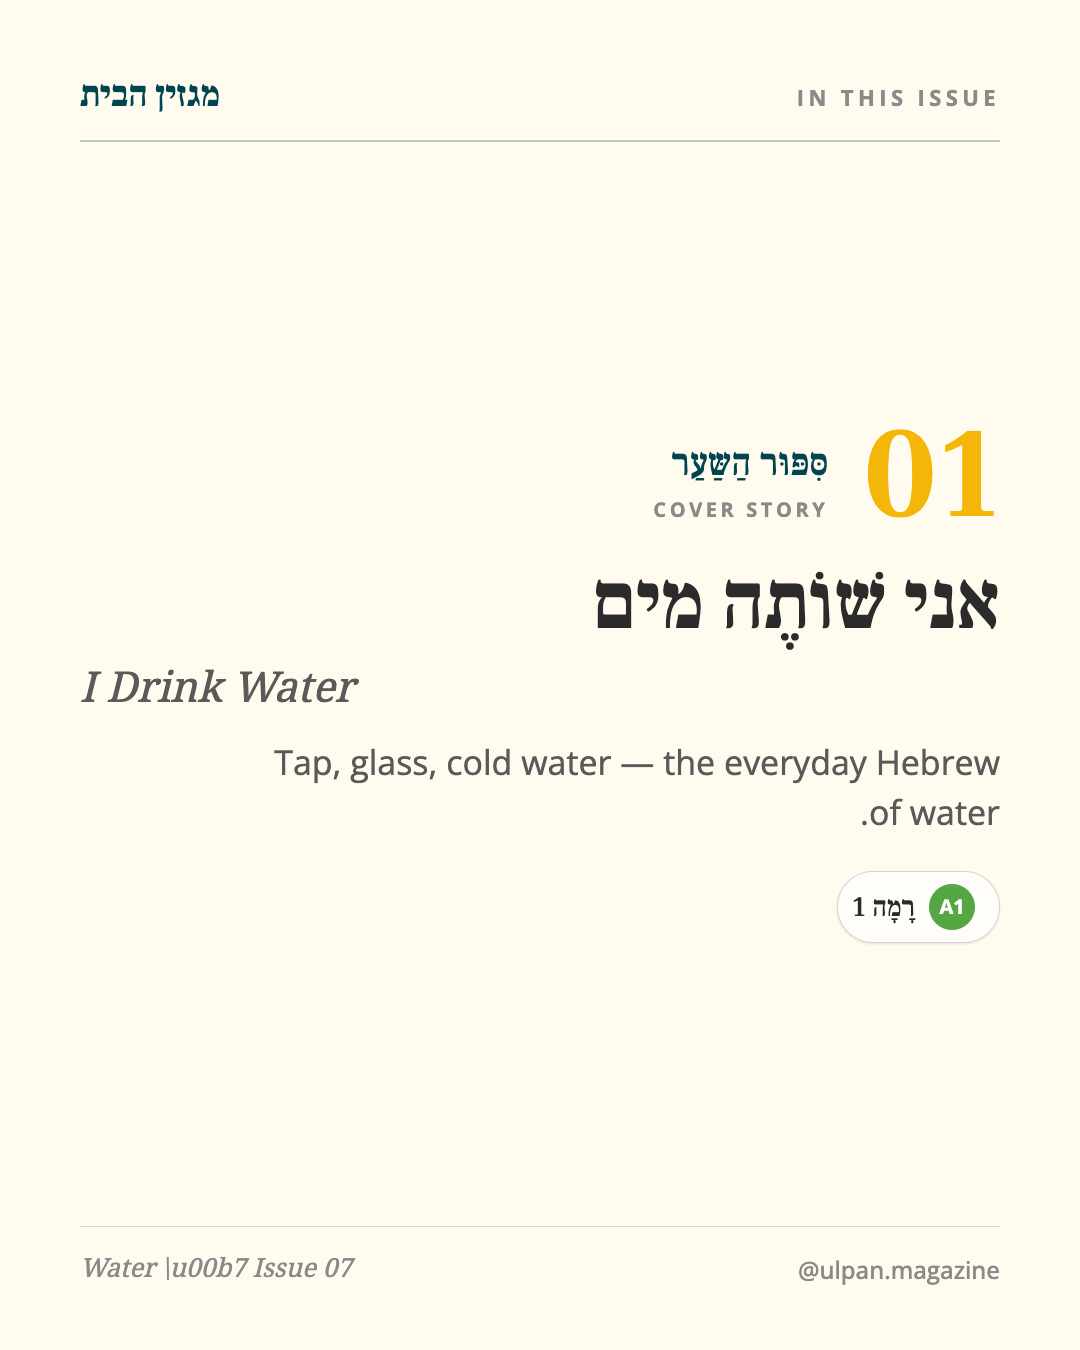
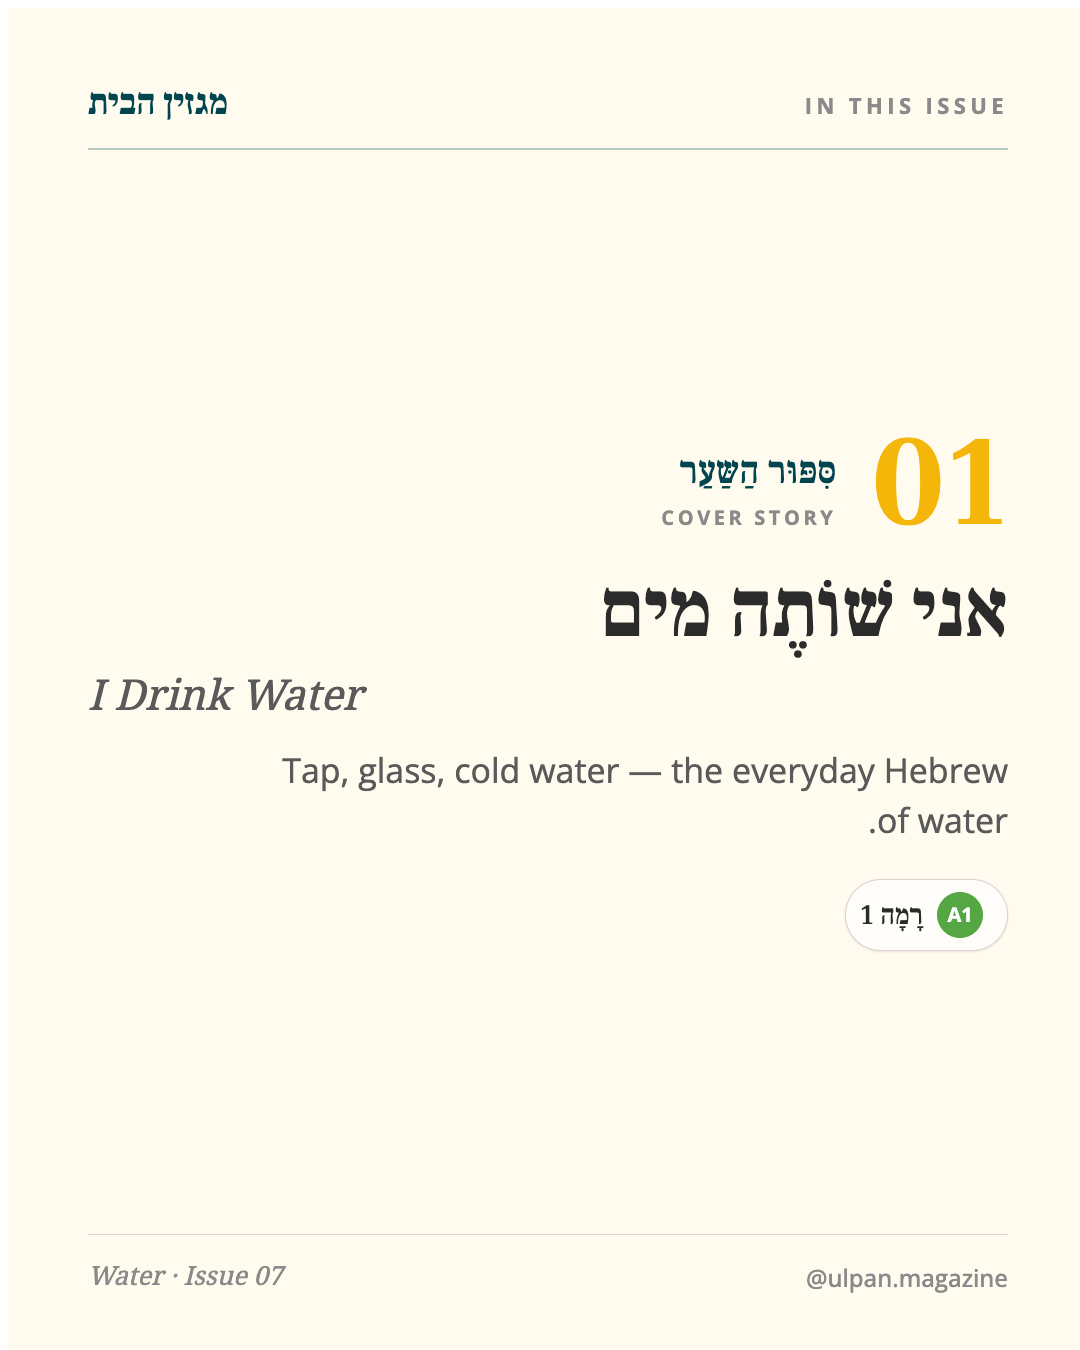
Re-validate v3 magazine fixes (box-sizing base.css, whats-inside ·, issue-teaser 4:5) — all resolved

diff --git a/social-examples/templates-magazine/issue-teaser/IssueTeaser.dc.html b/social-examples/templates-magazine/issue-teaser/IssueTeaser.dc.html
@@ -16,7 +16,7 @@
   <!-- masthead: issue label (LTR, left) + brand wordmark (right) -->
   <div style="display:flex;align-items:baseline;justify-content:space-between">
     <span dir="ltr" style="font-size:24px;font-weight:700;letter-spacing:0.2em;text-transform:uppercase;color:var(--ub-teal-deep);white-space:nowrap">{{ issueLabel }}</span>
-    <span style="font-family:var(--font-display);font-size:40px;font-weight:700;color:var(--ub-teal-deep)">{{ brandHe }}</span>
+    <span style="font-family:var(--font-display);font-size:40px;font-weight:700;color:var(--ub-teal-deep);white-space:nowrap;flex-shrink:0">{{ brandHe }}</span>
   </div>
   <div style="height:1.5px;background:var(--ub-teal-deep);opacity:0.28;margin-top:22px"></div>
 
@@ -26,13 +26,13 @@
     <span dir="ltr" style="font-size:22px;font-weight:700;letter-spacing:0.24em;text-transform:uppercase;color:var(--ub-gold-deep);white-space:nowrap">{{ eyebrow }}</span>
 
     <div style="display:flex;flex-direction:column;align-items:center;gap:8px;margin-top:-6px">
-      <h1 style="margin:0;font-family:var(--font-display);font-weight:700;font-size:152px;line-height:0.98;color:var(--ub-teal-deep)">{{ themeHe }}</h1>
+      <h1 data-theme style="margin:0;font-family:var(--font-display);font-weight:700;font-size:116px;line-height:0.98;color:var(--ub-teal-deep)">{{ themeHe }}</h1>
       <span dir="ltr" style="font-family:var(--font-serif);font-style:italic;font-size:54px;color:var(--ub-ink-muted)">{{ themeEn }}</span>
     </div>
 
     <!-- framed cover reveal: magazine-on-the-table feel -->
     <div style="margin-top:6px;padding:16px;background:var(--ub-white);border-radius:18px;box-shadow:var(--shadow-lg)">
-      <div style="position:relative;width:438px;height:560px;border-radius:10px;overflow:hidden;background:radial-gradient(120% 90% at 60% 25%, #8aa6ad 0%, #5d7e86 46%, #3a565e 100%)">
+      <div data-cover style="position:relative;width:372px;height:472px;border-radius:10px;overflow:hidden;background:radial-gradient(120% 90% at 60% 25%, #8aa6ad 0%, #5d7e86 46%, #3a565e 100%)">
         <div style="position:absolute;inset:0;text-align:center;display:flex;align-items:center;justify-content:center;color:rgba(255,255,255,0.34);font-size:22px;letter-spacing:0.18em;text-transform:uppercase;pointer-events:none">cover image</div>
         <img src="{{ photoUrl }}" alt="" style="position:absolute;inset:0;width:100%;height:100%;object-fit:cover" />
       </div>
@@ -74,7 +74,16 @@ class Component extends DCLogic {
   constructor(props) { super(props); this.rootRef = React.createRef(); }
   applyFormat() {
     const el = this.rootRef.current;
-    if (el) el.style.height = (this.props.format === '9:16') ? '1920px' : '1350px';
+    if (!el) return;
+    const wide = this.props.format === '9:16';
+    el.style.height = wide ? '1920px' : '1350px';
+    const theme = el.querySelector('[data-theme]');
+    const cover = el.querySelector('[data-cover]');
+    if (theme) theme.style.fontSize = wide ? '152px' : '116px';
+    if (cover) {
+      cover.style.width = wide ? '438px' : '372px';
+      cover.style.height = wide ? '560px' : '472px';
+    }
   }
   componentDidMount() { this.applyFormat(); }
   componentDidUpdate() { this.applyFormat(); }

diff --git a/social-examples/templates-magazine/whats-inside/WhatsInside.dc.html b/social-examples/templates-magazine/whats-inside/WhatsInside.dc.html
@@ -16,7 +16,7 @@
 <div style="position:relative;width:1080px;height:1350px;overflow:hidden;background:var(--ub-cream-warm);font-family:var(--font-body);direction:rtl;display:flex;flex-direction:column;padding:72px 80px 64px">
   <div style="display:flex;align-items:baseline;justify-content:space-between">
     <span dir="ltr" style="font-size:24px;font-weight:700;letter-spacing:0.2em;text-transform:uppercase;color:var(--ub-teal-deep);white-space:nowrap">{{ issueLabel }}</span>
-    <span style="font-family:var(--font-display);font-size:40px;font-weight:700;color:var(--ub-teal-deep)">{{ brandHe }}</span>
+    <span style="font-family:var(--font-display);font-size:40px;font-weight:700;color:var(--ub-teal-deep);white-space:nowrap;flex-shrink:0">{{ brandHe }}</span>
   </div>
   <div style="height:1.5px;background:var(--ub-teal-deep);opacity:0.28;margin-top:22px"></div>
 
@@ -42,7 +42,7 @@
 <div style="position:relative;width:1080px;height:1350px;overflow:hidden;background:var(--ub-cream-warm);font-family:var(--font-body);direction:rtl;display:flex;flex-direction:column;padding:72px 80px 64px">
   <div style="display:flex;align-items:baseline;justify-content:space-between">
     <span dir="ltr" style="font-size:22px;font-weight:700;letter-spacing:0.2em;text-transform:uppercase;color:var(--ub-ink-faint);white-space:nowrap">{{ tocLabel }}</span>
-    <span style="font-family:var(--font-display);font-size:36px;font-weight:700;color:var(--ub-teal-deep)">{{ brandHe }}</span>
+    <span style="font-family:var(--font-display);font-size:36px;font-weight:700;color:var(--ub-teal-deep);white-space:nowrap;flex-shrink:0">{{ brandHe }}</span>
   </div>
   <div style="height:1.5px;background:var(--ub-teal-deep);opacity:0.28;margin-top:22px"></div>
 
@@ -68,7 +68,7 @@
 
   <div style="display:flex;align-items:center;justify-content:space-between;padding-top:26px;border-top:1.5px solid var(--ub-rule)">
     <span dir="ltr" style="font-size:24px;font-weight:500;color:var(--ub-ink-faint)">{{ handle }}</span>
-    <span style="font-family:var(--font-serif);font-style:italic;font-size:26px;color:var(--ub-ink-faint)">{{ themeEn }} \u00b7 {{ issueShort }}</span>
+    <span style="font-family:var(--font-serif);font-style:italic;font-size:26px;color:var(--ub-ink-faint)">{{ themeEn }} · {{ issueShort }}</span>
   </div>
 </div>
 </sc-if>

diff --git a/social-examples/MAGAZINE-VALIDATION-FINDINGS.md b/social-examples/MAGAZINE-VALIDATION-FINDINGS.md
@@ -22,3 +22,9 @@ Renders: `renders/14`–`19`. Editorial register confirmed — clearly distinct 
 - feature-teaser, from-the-kitchen, games-teaser, editors-note: render perfectly with
   real data (real Kinneret photo+title; real Green Shakshuka + ingredients; Yaron's real
   photo in the editor's note). The `format` 4:5/9:16 toggle works.
+
+## RESOLVED 2026-06-16 (v3 export)
+All three fixed in Claude Design and re-validated:
+1. ✅ box-sizing reset added as `tokens/base.css` (`*,*::before,*::after{box-sizing:border-box}`) imported by styles.css — cards now render at exactly 1080×1350 with no injection.
+2. ✅ whats-inside footer uses a real `·` — renders "Water · Issue 07".
+3. ✅ issue-teaser shrunk (theme 152→116px, cover 438×560→372×472) — CTA + footer fit at 4:5.